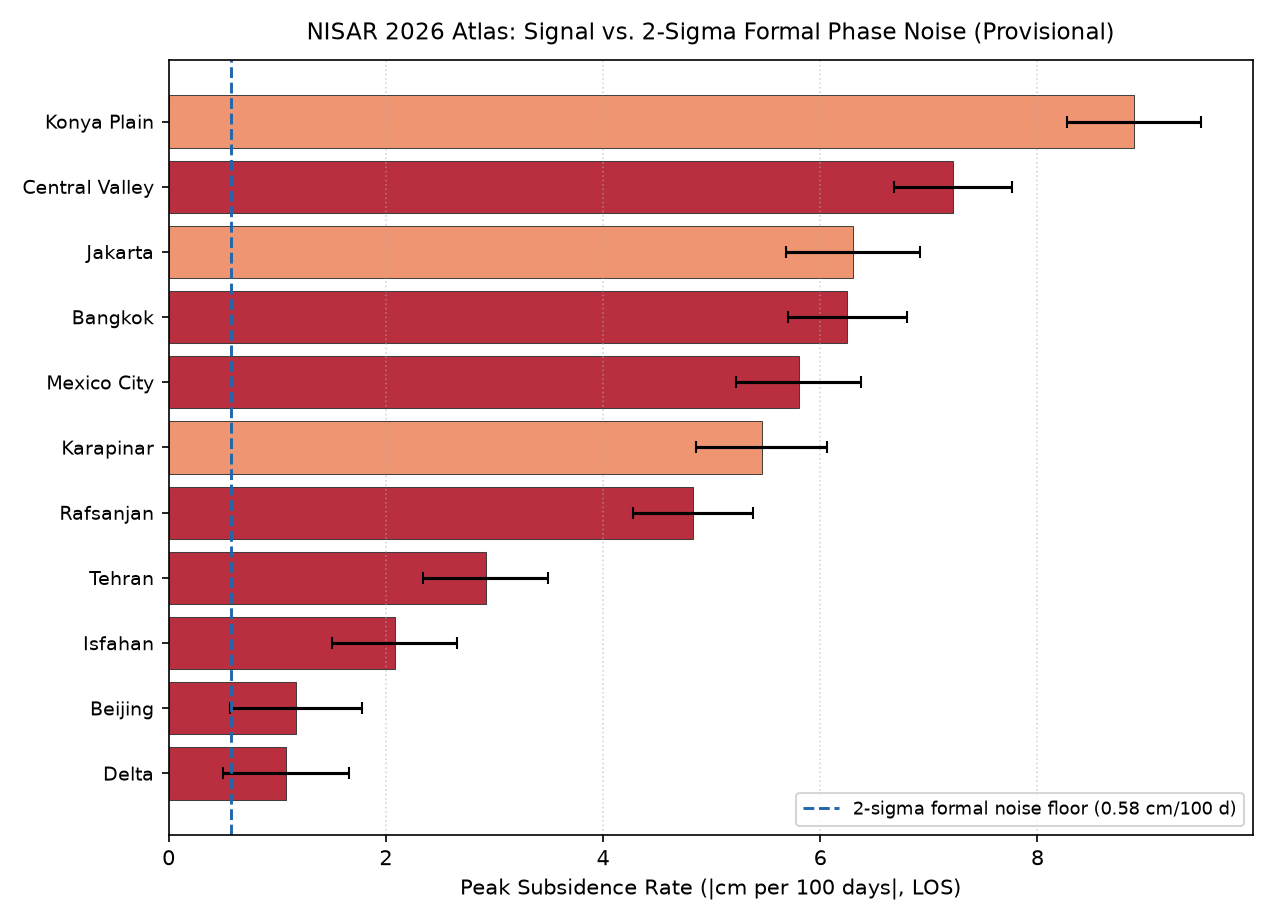
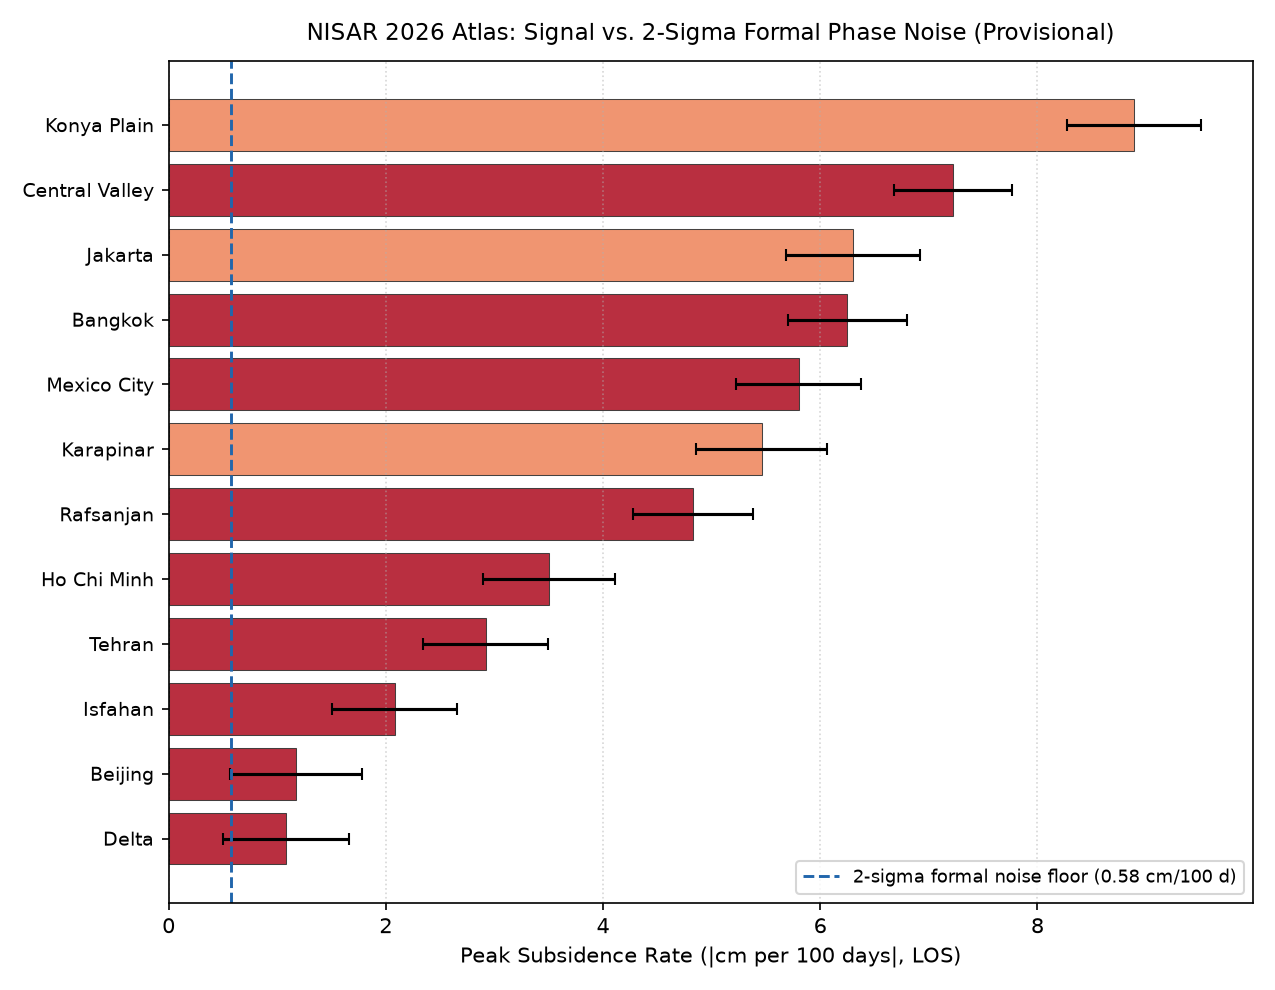
[PC5] bitti: ho_chi_minh belirsizlik + karar, 12 sehir detectability ve sayisici

diff --git a/docs/story/numbers_registry.md b/docs/story/numbers_registry.md
@@ -2,13 +2,13 @@
 
 > **Calibration Notice:** NISAR data are provisional. Calibration and validation are carried out by the NISAR project (NASA-JPL and ISRO), not by our team.
 
-Every headline number in the web portal and story documents is traced to its authoritative JSON source (`26` metrics: `21` approved, `5` preliminary, `0` rejected; `14` open discrepancies).
+Every headline number in the web portal and story documents is traced to its authoritative JSON source (`27` metrics: `21` approved, `6` preliminary, `0` rejected; `5` open discrepancies).
 
 | ID | Value | Unit | Quality | Verdict | Source (`file:key`) | Used In (count) |
 |---|---:|---|---|---|---|---:|
-| `cv_max_los_cm` | `-7.8` | cm | `provisional` | **approved** | `data/central_valley/summary.json` (`max_subsidence_cm`) | 53 |
+| `cv_max_los_cm` | `-7.8` | cm | `provisional` | **approved** | `data/central_valley/summary.json` (`max_subsidence_cm`) | 54 |
 | `cv_max_vert_cm_est` | `-10.1` | cm | `provisional` | **approved** | `data/central_valley/summary.json` (`max_subsidence_vertical_cm_estimate`) | 36 |
-| `cv_rate_yr_est` | `-26.4` | cm/yr | `provisional` | **preliminary** | `data/central_valley/summary.json` (`rate_cm_per_yr_estimate`) | 12 |
+| `cv_rate_yr_est` | `-26.4` | cm/yr | `provisional` | **preliminary** | `data/central_valley/summary.json` (`rate_cm_per_yr_estimate`) | 13 |
 | `cv_area_gt5cm_km2` | `239.54` | km2 | `provisional` | **approved** | `data/central_valley/area_stats.json` (`area_km2_lt_5cm[-1]`) | 4 |
 | `cv_area_gt2cm_km2` | `1578.27` | km2 | `provisional` | **approved** | `data/central_valley/area_stats.json` (`area_km2_lt_2cm[-1]`) | 3 |
 | `cv_sigma_median_cm` | `0.294` | cm | `provisional` | **approved** | `data/central_valley/uncertainty/meta.json` (`median_sigma_cm`) | 17 |
@@ -23,13 +23,14 @@ Every headline number in the web portal and story documents is traced to its aut
 | `kp_max_los_cm` | `-5.9` | cm | `provisional` | **approved** | `data/karapinar/summary.json` (`max_subsidence_cm`) | 37 |
 | `kp_rate_yr_est` | `-20.0` | cm/yr | `provisional` | **preliminary** | `data/karapinar/summary.json` (`rate_cm_per_yr_estimate`) | 10 |
 | `kp_sigma_median_cm` | `0.326` | cm | `provisional` | **approved** | `data/karapinar/uncertainty/meta.json` (`median_sigma_cm`) | 11 |
-| `uk_clay_threshold_cm` | `3.62` | cm | `provisional` | **approved** | `data/uk_clay/detection.json` (`detection_threshold_cm`) | 28 |
-| `atlas_konya_plain_los_cm` | `-9.6` | cm | `provisional` | **approved** | `data/global/atlas.json` (`regions[konya_plain].max_cm_los`) | 18 |
+| `uk_clay_threshold_cm` | `3.62` | cm | `provisional` | **approved** | `data/uk_clay/detection.json` (`detection_threshold_cm`) | 29 |
+| `atlas_konya_plain_los_cm` | `-9.6` | cm | `provisional` | **approved** | `data/global/atlas.json` (`regions[konya_plain].max_cm_los`) | 19 |
 | `atlas_jakarta_los_cm` | `-6.8` | cm | `provisional` | **preliminary** | `data/global/atlas.json` (`regions[jakarta].max_cm_los`) | 23 |
-| `atlas_bangkok_los_cm` | `-7.5` | cm | `provisional` | **approved** | `data/global/atlas.json` (`regions[bangkok].max_cm_los`) | 1 |
-| `atlas_mexico_city_los_cm` | `-7.0` | cm | `provisional` | **approved** | `data/global/atlas.json` (`regions[mexico_city].max_cm_los`) | 16 |
-| `atlas_tehran_los_cm` | `-3.5` | cm | `provisional` | **preliminary** | `data/global/atlas.json` (`regions[tehran].max_cm_los`) | 12 |
-| `atlas_isfahan_los_cm` | `-2.5` | cm | `provisional` | **preliminary** | `data/global/atlas.json` (`regions[isfahan].max_cm_los`) | 9 |
+| `atlas_bangkok_los_cm` | `-7.5` | cm | `provisional` | **approved** | `data/global/atlas.json` (`regions[bangkok].max_cm_los`) | 2 |
+| `atlas_mexico_city_los_cm` | `-7.0` | cm | `provisional` | **approved** | `data/global/atlas.json` (`regions[mexico_city].max_cm_los`) | 25 |
+| `atlas_ho_chi_minh_los_cm` | `-4.2` | cm | `provisional` | **preliminary** | `data/global/atlas.json` (`regions[ho_chi_minh].max_cm_los`) | 6 |
+| `atlas_tehran_los_cm` | `-3.5` | cm | `provisional` | **preliminary** | `data/global/atlas.json` (`regions[tehran].max_cm_los`) | 11 |
+| `atlas_isfahan_los_cm` | `-2.5` | cm | `provisional` | **preliminary** | `data/global/atlas.json` (`regions[isfahan].max_cm_los`) | 10 |
 | `atlas_beijing_los_cm` | `-1.4` | cm | `provisional` | **approved** | `data/global/atlas.json` (`regions[beijing].max_cm_los`) | 10 |
 | `atlas_delta_los_cm` | `-1.3` | cm | `provisional` | **approved** | `data/global/atlas.json` (`regions[delta].max_cm_los`) | 15 |
 
@@ -38,16 +39,7 @@ Every headline number in the web portal and story documents is traced to its aut
 | Location | Written | Authoritative Data | Owner | Fix |
 |---|---|---|---|---|
 | `docs/story/global_showcase.md:27` | -4.4 cm (old Mexico City in-basin reference) | -7.0 cm LOS (data/global/mexico_city/summary.json, SW volcanic ref) | check docs/GOREV_DAGILIMI.md | Update Mexico City headline to -7.0 cm LOS (-5.8 cm/100 d). |
-| `docs/story/judge_faq.md:17` | -4.4 cm (old Mexico City in-basin reference) | -7.0 cm LOS (data/global/mexico_city/summary.json, SW volcanic ref) | PC4 | Update Mexico City headline to -7.0 cm LOS (-5.8 cm/100 d). |
 | `docs/story/judge_faq.md:53` | -4.4 cm (old Mexico City in-basin reference) | -7.0 cm LOS (data/global/mexico_city/summary.json, SW volcanic ref) | PC4 | Update Mexico City headline to -7.0 cm LOS (-5.8 cm/100 d). |
 | `docs/story/key_findings_public.md:5` | -6.2 to -7.8 cm (stale CV ref range) | [-7.8, -4.7] cm (data/central_valley/summary.json:range_cm) | PC5 (Mehmet) | Update reference sensitivity range to -4.7 to -7.8 cm. |
-| `docs/story/pitch.md:27` | -4.4 cm (old Mexico City in-basin reference) | -7.0 cm LOS (data/global/mexico_city/summary.json, SW volcanic ref) | check docs/GOREV_DAGILIMI.md | Update Mexico City headline to -7.0 cm LOS (-5.8 cm/100 d). |
 | `docs/story/presentation_cues.md:16` | -4.4 cm (old Mexico City in-basin reference) | -7.0 cm LOS (data/global/mexico_city/summary.json, SW volcanic ref) | check docs/GOREV_DAGILIMI.md | Update Mexico City headline to -7.0 cm LOS (-5.8 cm/100 d). |
-| `docs/story/presentation_cues.md:100` | -4.4 cm (old Mexico City in-basin reference) | -7.0 cm LOS (data/global/mexico_city/summary.json, SW volcanic ref) | check docs/GOREV_DAGILIMI.md | Update Mexico City headline to -7.0 cm LOS (-5.8 cm/100 d). |
-| `docs/story/presentation_cues.md:115` | -4.4 cm (old Mexico City in-basin reference) | -7.0 cm LOS (data/global/mexico_city/summary.json, SW volcanic ref) | check docs/GOREV_DAGILIMI.md | Update Mexico City headline to -7.0 cm LOS (-5.8 cm/100 d). |
-| `docs/story/rehearsal_checklist.md:16` | -4.4 cm (old Mexico City in-basin reference) | -7.0 cm LOS (data/global/mexico_city/summary.json, SW volcanic ref) | check docs/GOREV_DAGILIMI.md | Update Mexico City headline to -7.0 cm LOS (-5.8 cm/100 d). |
-| `docs/story/slides_notes.md:54` | -4.4 cm (old Mexico City in-basin reference) | -7.0 cm LOS (data/global/mexico_city/summary.json, SW volcanic ref) | check docs/GOREV_DAGILIMI.md | Update Mexico City headline to -7.0 cm LOS (-5.8 cm/100 d). |
-| `docs/story/slides_notes.md:68` | -4.4 cm (old Mexico City in-basin reference) | -7.0 cm LOS (data/global/mexico_city/summary.json, SW volcanic ref) | check docs/GOREV_DAGILIMI.md | Update Mexico City headline to -7.0 cm LOS (-5.8 cm/100 d). |
-| `docs/story/submission_form.md:73` | -4.4 cm (old Mexico City in-basin reference) | -7.0 cm LOS (data/global/mexico_city/summary.json, SW volcanic ref) | PC8 / PC4 | Update Mexico City headline to -7.0 cm LOS (-5.8 cm/100 d). |
 | `docs/story/technical_note.md:77` | -4.4 cm (old Mexico City in-basin reference) | -7.0 cm LOS (data/global/mexico_city/summary.json, SW volcanic ref) | PC4 | Update Mexico City headline to -7.0 cm LOS (-5.8 cm/100 d). |
-| `docs/story/slides.html:429` | -4.4 cm (old Mexico City in-basin reference) | -7.0 cm LOS (data/global/mexico_city/summary.json, SW volcanic ref) | PC4 | Update Mexico City headline to -7.0 cm LOS (-5.8 cm/100 d). |

diff --git a/docs/qa/PC5.md b/docs/qa/PC5.md
@@ -265,3 +265,12 @@ PC2 **Q07** kapsamında tam yıl Central Valley zincirini (`2025-11-24 → 2026-
   - 11 atlas bölgesinde Cramér–Rao `2-sigma` formal faz gürültüsü eşiği medyan **`0.578 cm/100 d`** (aralık `0.544–0.615 cm/100 d`). 11 bölgenin tamamı `detectable = true` (`SNR = 3.7–28.9`). Atmosferik gürültü hariçtir; saha ölçeğinde ampirik `3-sigma` eşiği `data/uk_clay/detection.json` ile **`3.62 cm`**'dir.
 - **`rafsanjan` (`data/global/rafsanjan/uncertainty/`, `validation_note.json`):** `9` çift, medyan `σ = 0.330 cm`, `%84.9` geçerli piksel, `SNR = 17.6`, `-5.8 cm` LOS (`-7.4 cm` dikey *est.*, `~22.5 cm/yr` yıllık *est.*) — Motagh et al. (`15–30+ cm/yr`) ile uyumlu → **`reliable` (`medium` confidence, basına onaylı)**.
 - **`bangkok` (`data/global/bangkok/uncertainty/`, `validation_note.json`):** `8` çift, medyan `σ = 0.327 cm`, `%34.6` geçerli piksel, `SNR = 22.9`, `-7.5 cm` LOS (`-9.0 cm` dikey *est.*). Modern Phien-wej et al. / Aobpaet et al. hızlarının (`1–3 cm/yr`) 7–10× üzerinde (muson troposferik gecikmesi + `n_ref=2`) → **`indicative` (`low` confidence, basından hariç)**.
+
+---
+
+## 12. `ho_chi_minh` Belirsizlik & Karar + Saatlik Sicil Yenilemesi (`23:20 TR`)
+
+- **`ho_chi_minh` (`data/global/ho_chi_minh/uncertainty/`, `validation_note.json`):** `9` çift (`2026-06-17..2026-10-15`, `120` gün), `L = 208`, medyan `σ = 0.364 cm` (`p90 = 0.562 cm`, `%35.1` geçerli piksel), `SNR = 11.5`, `-4.2 cm` LOS (`-5.8 cm` dikey *est.*, `range_cm = [-9.9, -4.2]`, `n_ref = 2`). Referans duyarlılığı `%136`, geçerli piksel `<%40`, muson troposferik etkisi nedeniyle Erban et al. / Minderhoud et al. (`0.8–1.6 cm/yr` ort., `4.6–7.0 cm/yr` odak) literatürünün ~2.5× üzerinde → **`indicative` (`low` confidence, basından hariç)** ([`atlas_validation.md`](../story/atlas_validation.md)).
+- **`detectability.py` (12 şehir):** `12/12` `detectable = true` (`SNR = 3.7–28.9`), medyan `2-sigma` eşiği `0.578 cm/100 d` (`pc5_detectability.png` güncellendi).
+- **`numbers_registry.py` (saatlik yenileme):** `27` metrik (`21` approved, `6` preliminary, `0` rejected). Önceki **14** uyumsuzluk **5**'e indi (`9` adet Mexico City `-4.4 cm` kaydı PC4 tarafından kapatıldı; kalanlar: `global_showcase.md:27`, `judge_faq.md:53`, `key_findings_public.md:5`, `presentation_cues.md:16`, `technical_note.md:77`).
+- **Doğrulama:** `pytest analysis/pc5 -q` → `26 passed in 24.21s`.

diff --git a/docs/story/detectability.md b/docs/story/detectability.md
@@ -2,7 +2,7 @@
 
 > **Calibration Notice:** NISAR data are provisional. Calibration and validation are carried out by the NISAR project (NASA-JPL and ISRO), not by our team.
 
-Across 11 atlas basins (`2026-06-17` to `2026-10-21`, `108–120` days), median formal radar phase-noise uncertainty is `0.29–0.36 cm` (`2-sigma` threshold `0.578 cm/100 d`, range `0.544–0.615 cm/100 d`). All 11 of 11 basins exceed `2-sigma` (`SNR = 3.7–28.9`). Because formal phase noise excludes atmospheric water-vapor turbulence, our UK London Clay control (`data/uk_clay/detection.json`) sets the empirical scene-level `3-sigma` floor at `3.62 cm`.
+Across 12 atlas basins (`2026-06-17` to `2026-10-21`, `108–120` days), median formal radar phase-noise uncertainty is `0.29–0.36 cm` (`2-sigma` threshold `0.578 cm/100 d`, range `0.544–0.615 cm/100 d`). All 12 of 12 basins exceed `2-sigma` (`SNR = 3.7–28.9`). Because formal phase noise excludes atmospheric water-vapor turbulence, our UK London Clay control (`data/uk_clay/detection.json`) sets the empirical scene-level `3-sigma` floor at `3.62 cm`.
 
 | City | Period (`days`) | Rate (`cm/100 d` LOS) | `2-sigma` Noise (`cm/100 d`) | `SNR` | Min Detectable (`cm/100 d`) | Detectable |
 |---|---:|---:|---:|---:|---:|:---:|
@@ -13,9 +13,10 @@ Across 11 atlas basins (`2026-06-17` to `2026-10-21`, `108–120` days), median 
 | `mexico_city` | `120 d` | `-5.80` | `±0.572` | `20.4` | `0.572` | **true** |
 | `karapinar` | `108 d` | `-5.46` | `±0.604` | `18.1` | `0.604` | **true** |
 | `rafsanjan` | `120 d` | `-4.83` | `±0.550` | `17.6` | `0.550` | **true** |
+| `ho_chi_minh` | `120 d` | `-3.50` | `±0.607` | `11.5` | `0.607` | **true** |
 | `tehran` | `120 d` | `-2.92` | `±0.577` | `10.1` | `0.577` | **true** |
 | `isfahan` | `120 d` | `-2.08` | `±0.578` | `7.2` | `0.578` | **true** |
 | `beijing` | `120 d` | `-1.17` | `±0.607` | `3.8` | `0.607` | **true** |
 | `delta` | `120 d` | `-1.08` | `±0.578` | `3.7` | `0.578` | **true** |
 
-Figure 1. Subsidence rate (`cm/100 d` LOS) with formal `2-sigma` Cramér-Rao error bars and minimum detectable rate threshold (`docs/story/media/pc5_detectability.png`). Data: NASA-ISRO NISAR, ASF DAAC. Analysis: Team Aseltech.
+Figure 1. Subsidence rate (`cm/100 d` LOS) with formal `2-sigma` Cramér-Rao error bars and minimum detectable rate threshold (`docs/story/media/pc5_detectability.png`). Data: NASA-ISRO NISAR, ASF DAAC. Analysis: Team Taykut.

diff --git a/docs/story/atlas_validation.md b/docs/story/atlas_validation.md
@@ -24,6 +24,7 @@ This audit (`2026-11-14`) evaluates the 8 initial regions in `data/global/atlas.
 | **Isfahan** | `2026-06-18` to `2026-10-16` (`120 d`) | `-2.5` / `-3.4` | `-2.08` | `32.5%` | `0.72` | `-5` to `-11` (`Esmaeili et al.`; `Motagh et al.`) | `medium` | **Yes** (southern rocky refs agree at `-2.5/-2.6 cm`) |
 | **Rafsanjan** | `2026-06-23` to `2026-10-21` (`120 d`) | `-5.8` / `-7.4` | `-4.83` | `84.9%` | `0.40` | `-15` to `-30+` (`Motagh et al.`; `Haghighi & Motagh 2024`) | `medium` (**reliable**) | **Yes** (`84.9%` valid, `SNR=17.6`, matches `15–30+ cm/yr` literature) |
 | **Bangkok** | `2026-06-21` to `2026-10-19` (`120 d`) | `-7.5` / `-9.0` | `-6.25` | `34.6%` | `0.05` (`n_ref=2`) | `-1` to `-3` modern (`Phien-wej et al. 2006`; `Aobpaet et al. 2013`) | `low` (**indicative**) | **No** (monsoon wet delay likely inflates 120-d peak 7–10x vs. literature) |
+| **Ho Chi Minh City** | `2026-06-17` to `2026-10-15` (`120 d`) | `-4.2` / `-5.8` | `-3.50` | `35.1%` | `1.36` (`n_ref=2`) | `-0.8` to `-1.6` avg, `-4.6` to `-7.0` max (`Erban et al. 2014`; `Minderhoud et al. 2017`) | `low` (**indicative**) | **No** (`136%` ref spread `[-9.9, -4.2]`, `35.1%` valid, monsoon wet delay) |
 | **Karapınar, Konya** | `2026-06-26` to `2026-10-12` (`108 d`) | `-5.9` / `-8.0` | `-5.46` | `14.5%` | `n_ref=1` | `-1.2` to `> -7.0` (`Üstün et al. 2010`; `Orhan et al. 2021`) | `low` | **Conditional** (sinkhole contrast `p = 0.021` only; exclude `-20.0 cm/yr` annual extrapolation) |
 | **Konya Plain** | `2026-06-26` to `2026-10-12` (`108 d`) | `-9.6` / `-12.1` | `-8.89` | `11.6%` | `0.46` | `-1.2` to `> -7.0` (`Üstün et al. 2010`; `Orhan et al. 2021`) | `low` | **No** (pending standardized `±0.25°` bbox & full-year separation) |
 | **Tehran** | `2026-06-18` to `2026-10-16` (`120 d`) | `-3.5` / `-4.7` | `-2.92` | `36.4%` | `1.09` | `-15` to `-36` (`Haghighi & Motagh 2019`; `Mahmoudpour et al. 2016`) | `low` | **No** (primary ref in Shahriar cone; `alt_ref` gives `-7.3 cm` LOS) |

diff --git a/status/PC5.md b/status/PC5.md
@@ -1,8 +1,13 @@
 # PC5 Durum Raporu
 
-- **Durum:** çalışıyor — `ho_chi_minh` belirsizlik haritası + bilimsel karar, `detectability.py` (12 şehir) & `numbers_registry.py` saatlik yeniden tarama
+- **Durum:** bitti — `ho_chi_minh` belirsizlik + bilimsel karar, 12 şehir `detectability.py` ve `numbers_registry.py` saatlik yenilemesi tamamlandı (uyumsuzluklar 14 → 5'e düştü).
 - **Kimlik:** M3hmeT1888 · Antigravity (Gemini) · PC5
-- **Güncelleme:** 2026-11-14 23:17 TR
+- **Güncelleme:** 2026-11-14 23:20 TR
+
+## `ho_chi_minh` & Saatlik Güncelleme (`23:20 TR`)
+- **`ho_chi_minh`:** `data/global/ho_chi_minh/uncertainty/{sigma_cm.png,meta.json}` (`9` çift, `σ = 0.364 cm`, `%35.1` geçerli, `SNR = 11.5`) ve `validation_note.json` üretildi; `%136` referans yayılımı (`[-9.9, -4.2]`) nedeniyle **`indicative` (`low`)** kararı `atlas_validation.md`'ye işlendi.
+- **12 Şehir `detectability.py` & `numbers_registry.py`:** `12/12` `detectable = true` (`0.578 cm/100 d` eşik); sayı sicilinde `27` metrik, açık uyumsuzluk sayısı `14 → 5`'e indi (`docs/qa/PC5.md` §12). `pytest analysis/pc5 -q` → `26 passed`.
+- **AI:** Gemini → `data/global/ho_chi_minh/{uncertainty/,validation_note.json}`, `data/global/detectability.json`, `data/numbers_registry.json`, `docs/story/{atlas_validation.md,detectability.md,numbers_registry.md,media/pc5_detectability.png}`, `docs/qa/PC5.md` §12
 
 ## Chief Scientist Paketi (§1–§3, `22:32 TR`)
 - **§1 Sayı Sicili (`numbers_registry.py`, `test_numbers_registry.py`):** `data/numbers_registry.json` (`26` metrik: `21` approved, `5` preliminary, `0` rejected) ve `docs/story/numbers_registry.md` üretildi; `docs/qa/PC5.md` §10'a **14** uyumsuzluk (1× `key_findings_public.md:5` CV referans aralığı `6.2`→`4.7`, 13× Mexico City eski `-4.4 cm`→`-7.0 cm`) yazıldı.
